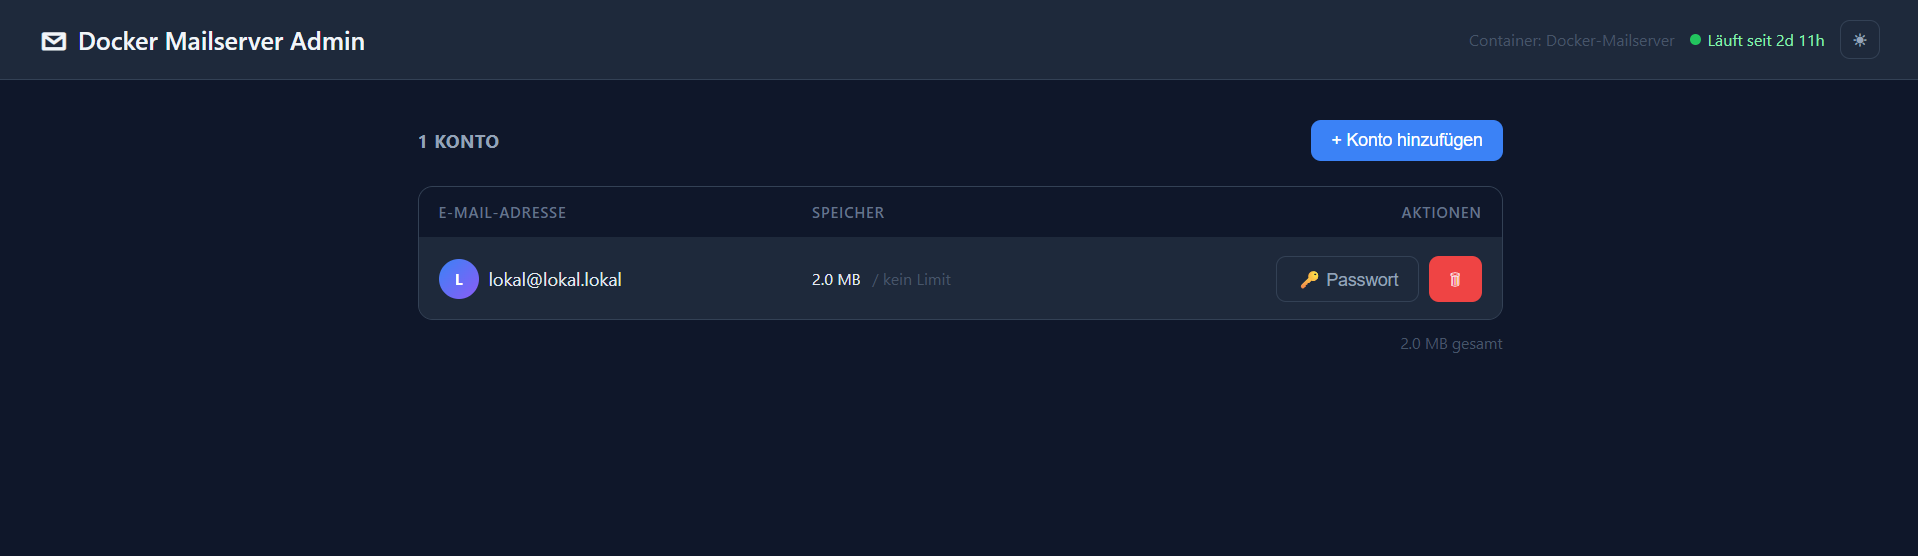
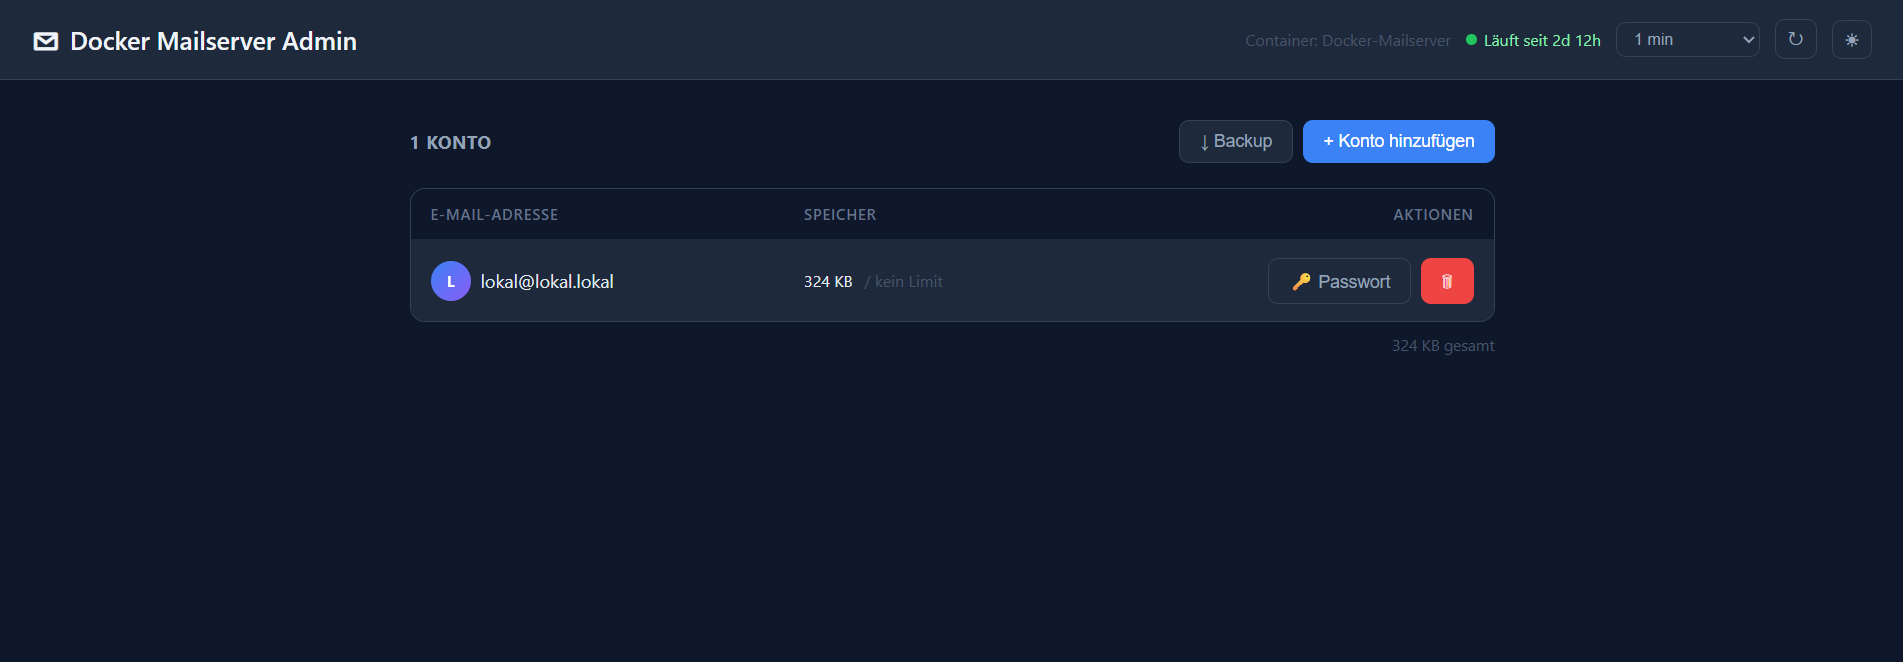
docs: update screenshot, highlight backup feature in README

diff --git a/README.md b/README.md
@@ -15,8 +15,9 @@ A simple web interface for managing email accounts in [Docker Mailserver](https:
 - Change passwords
 - Delete accounts
 - Total storage summary across all mailboxes
-- One-click full backup download (mails + config as `.tar.gz`)
+- **One-click full backup** — downloads all mails + config as `dms-backup-YYYY-MM-DD.tar.gz` (standard Maildir format, importable into Thunderbird, Dovecot, Evolution and others)
 - Container status display (running state + uptime)
+- Configurable auto-refresh + manual refresh button
 - Dark/Light mode toggle (saved in browser)
 - Protected by HTTP Basic Auth
 
